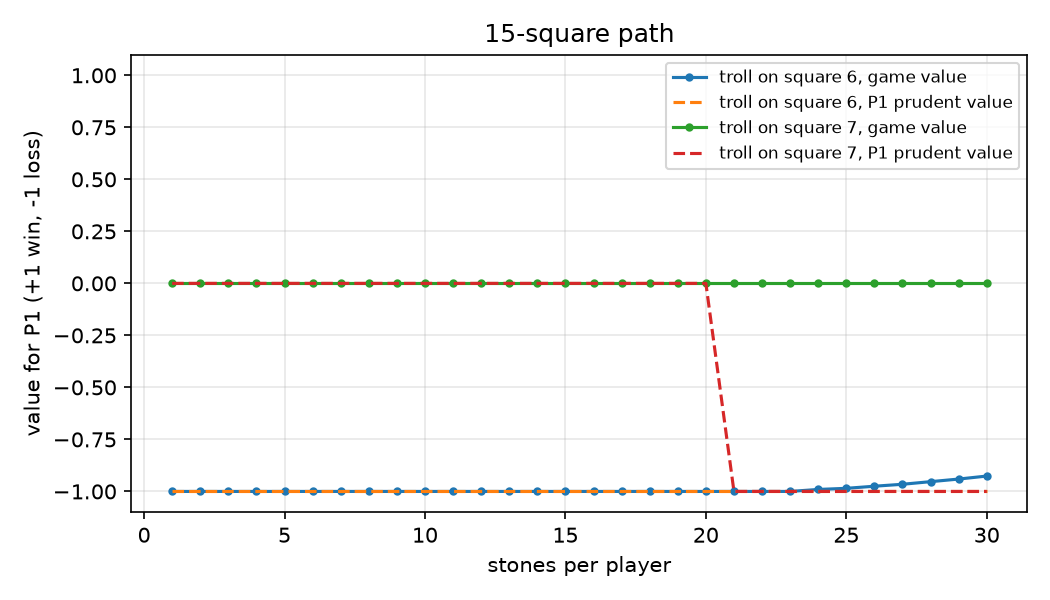
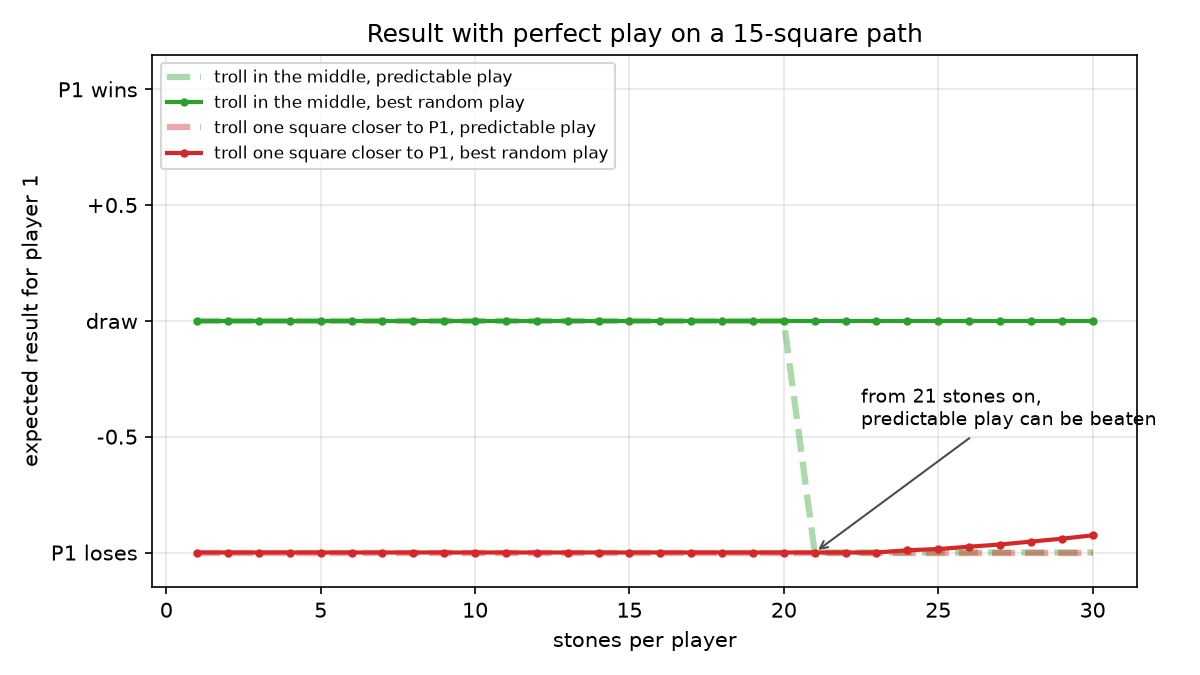
Clearer plots and explanation of the value curve

diff --git a/main.py b/main.py
@@ -81,21 +81,35 @@ def cmd_curve(args):
     import matplotlib.pyplot as plt
 
     n = args.max_stones
-    starts = sorted({(args.cells - 1) // 2, (args.cells - 1) // 2 - 1})
-    fig, ax = plt.subplots(figsize=(7, 4))
-    for start in starts:
+    middle = (args.cells - 1) // 2
+    xs = list(range(1, n + 1))
+    fig, ax = plt.subplots(figsize=(8, 4.5))
+    cases = [(middle, "troll in the middle", "tab:green"),
+             (middle - 1, "troll one square closer to P1", "tab:red")]
+    for start, where, colour in cases:
         solver = Solver(Game(args.cells, n, n, start))
-        xs = range(1, n + 1)
-        ax.plot(xs, [solver.value[start, k, k] for k in xs], marker="o", ms=3,
-                label=f"troll on square {start}, game value")
-        ax.plot(xs, [solver.lower[start, k, k] for k in xs], ls="--",
-                label=f"troll on square {start}, P1 prudent value")
+        mixed = [solver.value[start, k, k] for k in xs]
+        pure = [solver.lower[start, k, k] for k in xs]
+        # Dashed line drawn wide and underneath so it stays visible when the
+        # two curves overlap.
+        ax.plot(xs, pure, ls="--", lw=3, color=colour, alpha=0.4,
+                label=f"{where}, predictable play")
+        ax.plot(xs, mixed, lw=2, marker="o", ms=3, color=colour,
+                label=f"{where}, best random play")
+        if start == middle:
+            drop = next((k for k, p, m in zip(xs, pure, mixed) if p < m - 1e-9), None)
+            if drop:
+                ax.annotate(f"from {drop} stones on,\npredictable play can be beaten",
+                            xy=(drop, -1), xytext=(drop + 1.5, -0.45), fontsize=9,
+                            arrowprops=dict(arrowstyle="->", color="0.3"))
     ax.set_xlabel("stones per player")
-    ax.set_ylabel("value for P1 (+1 win, -1 loss)")
-    ax.set_title(f"{args.cells}-square path")
-    ax.set_ylim(-1.1, 1.1)
+    ax.set_ylabel("expected result for player 1")
+    ax.set_yticks([-1, -0.5, 0, 0.5, 1],
+                  ["P1 loses", "-0.5", "draw", "+0.5", "P1 wins"])
+    ax.set_title(f"Result with perfect play on a {args.cells}-square path")
+    ax.set_ylim(-1.15, 1.15)
     ax.grid(alpha=0.3)
-    ax.legend(fontsize=8)
+    ax.legend(fontsize=8, loc="upper left")
     fig.tight_layout()
     fig.savefig(args.out, dpi=150)
     print(f"saved {args.out}")

diff --git a/README.md b/README.md
@@ -28,9 +28,21 @@ Game theory course project (Master 1, 2025-2026), done with Mohamed Ali Damergi.
   bot spots it and beats it 1000 games to 0.
 - A single extra stone (15 vs 14) moves the value from 0 to +0.53.
 
-Details, tables and plots are in [docs/report.md](docs/report.md).
+![Result with perfect play on a 7-square path](docs/value_vs_stones_7.png)
 
-![value vs stones](docs/value_vs_stones_7.png)
+How to read it: each point is the expected result for player 1 when both
+players play as well as possible.
+
+- **Solid lines:** players are allowed to randomise their throws, which is the
+  true optimum.
+- **Dashed lines:** players always pick the same "safe" move.
+
+With the troll in the middle (green), the game is a fair draw. From 9 stones on,
+though, the predictable player can always be beaten. With the troll one square
+closer to player 1 (red), player 1 is lost when stones are scarce. With more
+stones they get chances back, but only by playing randomly.
+
+Details, tables and plots are in [docs/report.md](docs/report.md).
 
 ## Run it
 

diff --git a/docs/report.md b/docs/report.md
@@ -76,6 +76,11 @@ This version solves the full recursion with mixed values.
 ![value vs stones, 7 squares](value_vs_stones_7.png)
 ![value vs stones, 15 squares](value_vs_stones_15.png)
 
+*Expected result for P1 under optimal play, as a function of the number of
+stones per player. Solid lines show the game value (mixed strategies). Dashed
+lines show what P1 can guarantee with deterministic play (`lower`). Green
+curves start the troll in the middle, red curves one square closer to P1.*
+
 - **Moving the troll one square** towards P1 loses the game for P1 when stones
   are scarce. With more stones, P1 gets real chances back by randomising: on
   7 squares the value rises from -1 to about -0.75 at 30 stones. In pure
